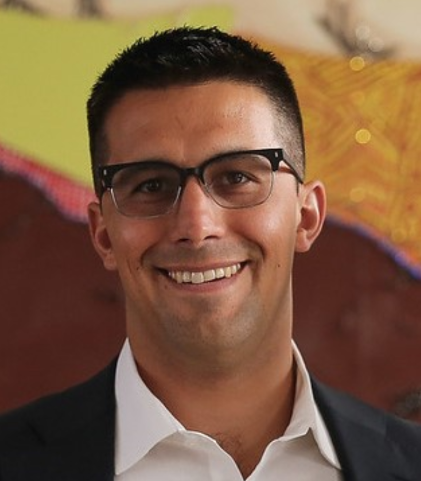
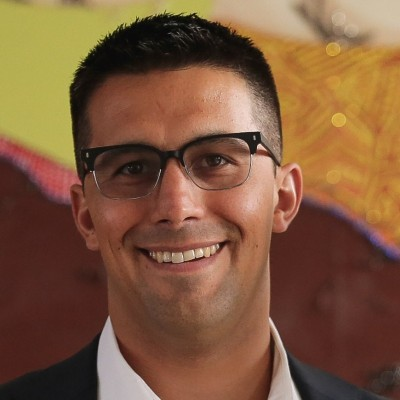
Fix sizings of team images

diff --git a/assets/css/_includes/_team-member-card.scss b/assets/css/_includes/_team-member-card.scss
@@ -4,7 +4,6 @@
   margin-top: 1rem;
   text-align: center;
   width: auto;
-  height: 30rem;
   max-width: 50rem;
   max-height: 30rem;
 
@@ -29,8 +28,8 @@
   img {
     display: block;
     margin: auto;
-    height: 20rem;
-    width: auto;
+    height: auto;
+    width: 100%;
   }
 }
 

diff --git a/collections/_team_members/diamond-nwankwo.md b/collections/_team_members/diamond-nwankwo.md
@@ -2,7 +2,7 @@
 name: Diamond Nwankwo
 title: Diamond Nwankwo
 permalink: /team/diamond-nwankwo/
-image_id: attW7Ep5zdBwxFzzB
+image_id: att9pSN4nKRKjWUmV
 image_path: /assets/img/import/bio/diamond-nwankwo/diamond-nwankwo.jpg
 job_title: Emerging Technology Fellow
 blurb: <p>Diamond Nwankwo (she/her) has a proven data-based track record with 10 years of experience in data engineering and quality assurance/control field within aerospace manufacturing.<br>Diamond worked as a senior data engineer, where she was responsible for designing, building and maintaining data pipelines and systems. Prior to that, she worked in solar renewable energy as a data engineer where she was the lead on an irradiance extract, transform, load (ETL) pipeline development and reporting data quality.</p>

diff --git a/collections/_team_members/curtis-mitchell.md b/collections/_team_members/curtis-mitchell.md
@@ -2,7 +2,7 @@
 name: Curtis Mitchell
 title: Curtis Mitchell
 permalink: /team/curtis-mitchell/
-image_id: attzMv5LoQkfN8oSs
+image_id: attlVfSWFOzhOwYsK
 image_path: /assets/img/import/bio/curtis-mitchell/curtis-mitchell.jpg
 job_title: Emerging Technology Fellow
 blurb: <p>Curtis Mitchell (he/him) is excited to be an Emerging Technology Fellow on the xD team. His career has gone through several transitions, including being a data analyst at an energy consulting firm before working at several data analysis and machine learning startups as a software engineer. Before joining xD, he worked with multiple teams at NASA’s Ames Research Center on a research platform to integrate drones and air taxis into the air traffic control system.</p>
